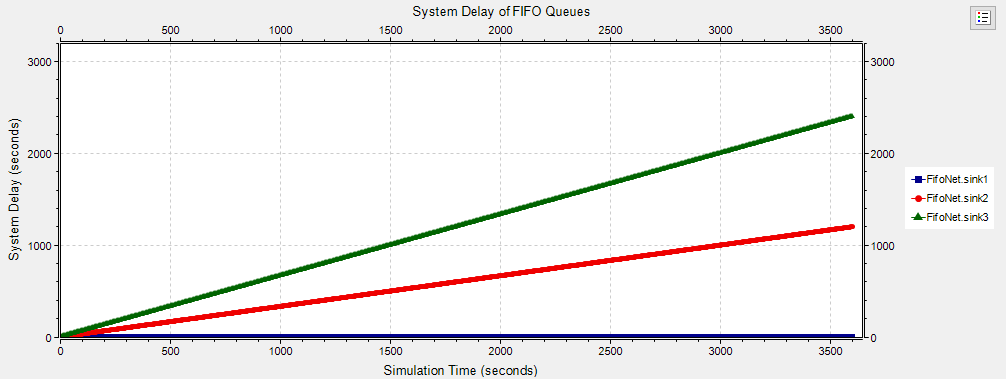
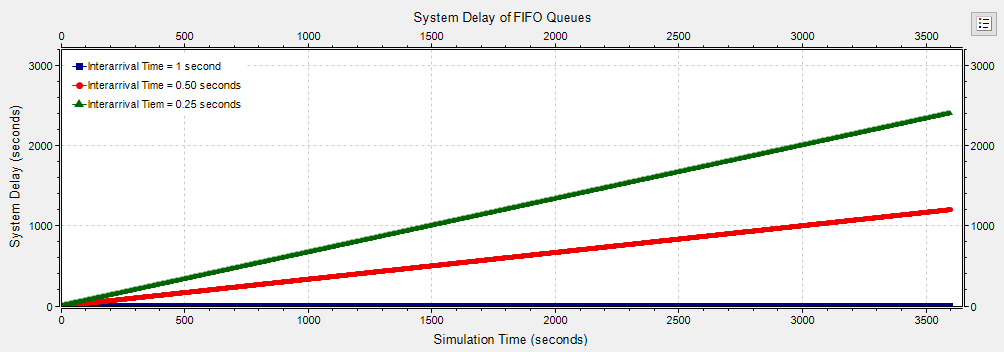
Updated chart legend

diff --git a/Assignments/Project1/Hayden_Project1.tex b/Assignments/Project1/Hayden_Project1.tex
@@ -148,7 +148,7 @@ However, Queues \#2 and \#3 will have a queue length which will grow to infinity
 This makes sense given the meaning of each variable:  for Queue \#1 - packets arrive slower than they are serviced, for the other two queues - packets arrive faster than they can be serviced.
 
 \subsection*{System Delay}
-Figure \#\ref{DelayPlot} shows the system delay of each queue, where sinks \#1-3 correspond to Queues \#1-3.
+Figure \#\ref{DelayPlot} shows the system delay of each queue.
 
 \begin{figure}[h!]
 	\begin{center}
